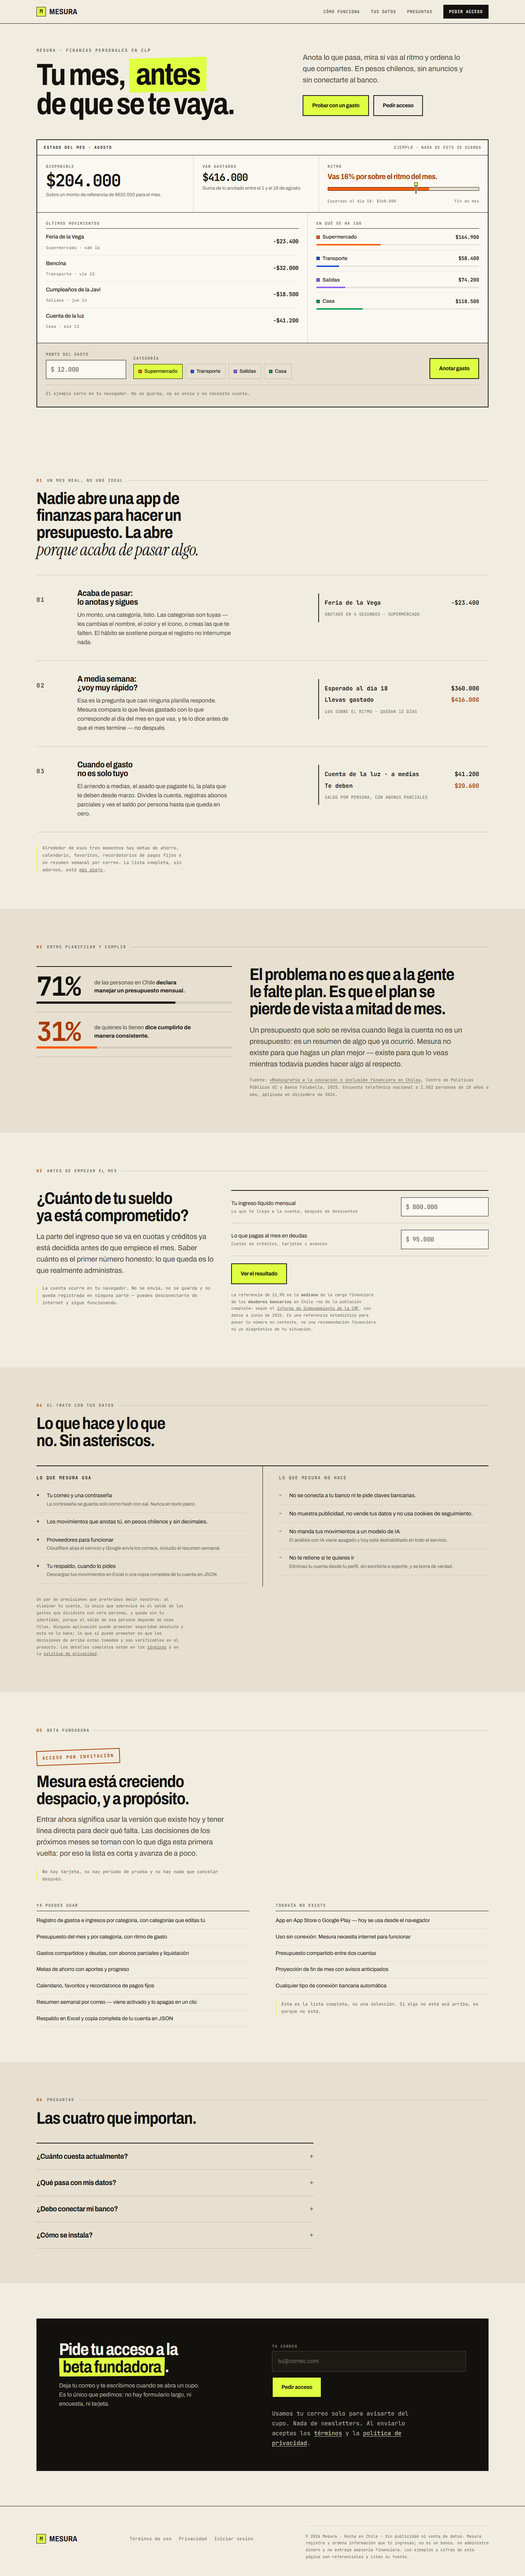
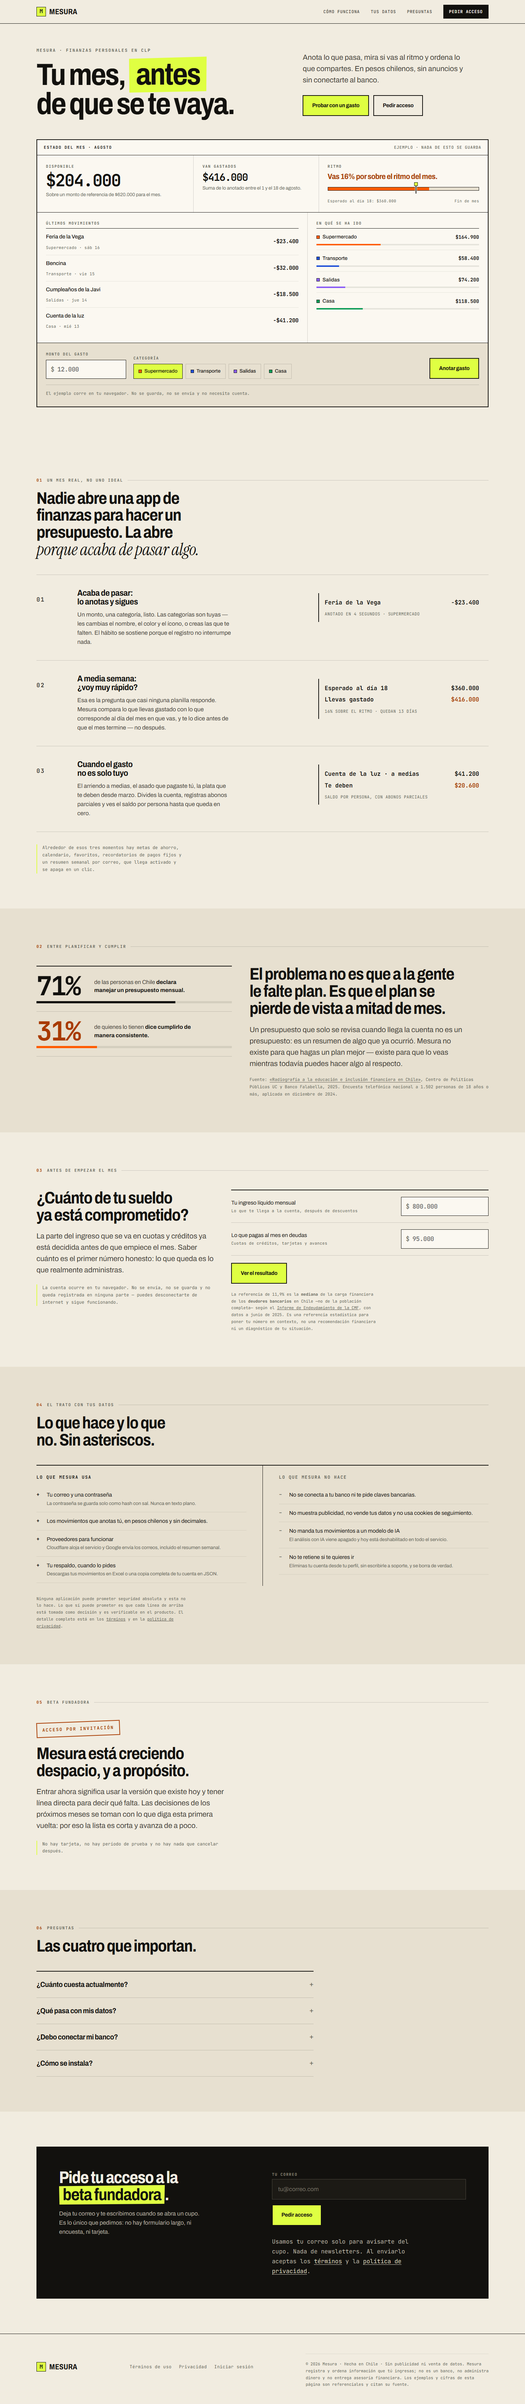
content(landing): saca el inventario de funciones de la seccion Beta fundadora
Las dos listas ('Ya puedes usar' / 'Todavia no existe') se leian como changelog
interno, y enumerar carencias justo encima del formulario cambia el trabajo de
la seccion de cerrar a dar explicaciones.

Ademas resuelve una contradiccion: la lista de carencias incluia 'cualquier tipo
de conexion bancaria automatica', que el hero vende como virtud ('sin conectarte
al banco'). La pagina se contradecia sola.

Ninguna afirmacion verificada se pierde, se redistribuyen:
- El resumen semanal como opt-out pasa a la nota al margen de la seccion 01.
  Era una correccion deliberada de honestidad y no podia quedar fuera.
- Que los gastos compartidos se anonimizan al eliminar la cuenta pasa a la FAQ
  de datos, que es donde alguien lo va a buscar.
- Las tiendas y la necesidad de internet ya estaban en la FAQ de instalacion.

Se recorta tambien la letra chica de 'Tus datos', que habia crecido hasta
parecer un anexo legal, y se elimina el CSS de .two-lists que queda muerto.

La pagina baja de 9.385 px a 8.430 px en movil. 48/48 pruebas funcionales y
cero violaciones de axe en las cuatro configuraciones.

diff --git a/index.html b/index.html
@@ -344,8 +344,8 @@
 
       <p class="marginal" style="margin-top:34px;max-width:56ch;">
         Alrededor de esos tres momentos hay metas de ahorro, calendario, favoritos,
-        recordatorios de pagos fijos y un resumen semanal por correo. La lista
-        completa, sin adornos, está <a href="#acceso">más abajo</a>.
+        recordatorios de pagos fijos y un resumen semanal por correo, que llega
+        activado y se apaga en un clic.
       </p>
     </div>
   </section>
@@ -517,12 +517,9 @@
       </div>
 
       <p class="fineprint" style="margin-top:26px;">
-        Un par de precisiones que preferimos decir nosotros: al eliminar tu cuenta, lo
-        único que sobrevive es el saldo de los gastos que dividiste con otra persona, y
-        queda sin tu identidad, porque el saldo de esa persona depende de esas filas.
-        Ninguna aplicación puede prometer seguridad absoluta y esta no lo hace; lo que
-        sí puede prometer es que las decisiones de arriba están tomadas y son
-        verificables en el producto. Los detalles completos están en los
+        Ninguna aplicación puede prometer seguridad absoluta y esta no lo hace. Lo que
+        sí puede prometer es que cada línea de arriba está tomada como decisión y es
+        verificable en el producto. El detalle completo está en los
         <a href="https://mesura.mrifo2808.workers.dev/terminos" rel="noopener">términos</a> y en la
         <a href="https://mesura.mrifo2808.workers.dev/privacidad" rel="noopener">política de privacidad</a>.
       </p>
@@ -536,50 +533,19 @@
         <p class="tag"><b>05</b> Beta fundadora</p>
       </div>
 
-      <div class="beta">
-        <div class="beta__intro">
-          <p class="stamp">Acceso por invitación</p>
-          <h2 class="t-h2" style="margin-top:24px;">Mesura está creciendo despacio, y a propósito.</h2>
-          <p class="lead" style="margin-top:18px;">
-            Entrar ahora significa usar la versión que existe hoy y tener línea
-            directa para decir qué falta. Las decisiones de los próximos meses se
-            toman con lo que diga esta primera vuelta: por eso la lista es corta y
-            avanza de a poco.
-          </p>
-          <p class="marginal" style="margin-top:26px;">
-            No hay tarjeta, no hay período de prueba y no hay nada que cancelar
-            después.
-          </p>
-        </div>
-
-        <div class="two-lists">
-          <div>
-            <h3>Ya puedes usar</h3>
-            <ul>
-              <li>Registro de gastos e ingresos por categoría, con categorías que editas tú</li>
-              <li>Presupuesto del mes y por categoría, con ritmo de gasto</li>
-              <li>Gastos compartidos y deudas, con abonos parciales y liquidación</li>
-              <li>Metas de ahorro con aportes y progreso</li>
-              <li>Calendario, favoritos y recordatorios de pagos fijos</li>
-              <li>Resumen semanal por correo — viene activado y lo apagas en un clic</li>
-              <li>Respaldo en Excel y copia completa de tu cuenta en JSON</li>
-            </ul>
-          </div>
-          <div>
-            <h3>Todavía no existe</h3>
-            <ul>
-              <li>App en App Store o Google Play — hoy se usa desde el navegador</li>
-              <li>Uso sin conexión: Mesura necesita internet para funcionar</li>
-              <li>Presupuesto compartido entre dos cuentas</li>
-              <li>Proyección de fin de mes con avisos anticipados</li>
-              <li>Cualquier tipo de conexión bancaria automática</li>
-            </ul>
-            <p class="marginal" style="margin-top:18px;">
-              Esta es la lista completa, no una selección. Si algo no está acá arriba,
-              es porque no está.
-            </p>
-          </div>
-        </div>
+      <div class="beta__intro">
+        <p class="stamp">Acceso por invitación</p>
+        <h2 class="t-h2" style="margin-top:24px;">Mesura está creciendo despacio, y a propósito.</h2>
+        <p class="lead" style="margin-top:18px;">
+          Entrar ahora significa usar la versión que existe hoy y tener línea
+          directa para decir qué falta. Las decisiones de los próximos meses se
+          toman con lo que diga esta primera vuelta: por eso la lista es corta y
+          avanza de a poco.
+        </p>
+        <p class="marginal" style="margin-top:26px;">
+          No hay tarjeta, no hay período de prueba y no hay nada que cancelar
+          después.
+        </p>
       </div>
     </div>
   </section>
@@ -621,9 +587,11 @@
             <p>
               Puedes descargar tus movimientos en Excel, o una copia completa de tu
               cuenta en JSON, y eliminar tu cuenta desde tu propio perfil sin
-              escribirle a soporte. No hay publicidad, ni venta de datos, ni cookies
-              de seguimiento. El análisis con IA viene apagado y hoy está deshabilitado
-              en todo el servicio.
+              escribirle a soporte. Al eliminarla se borra todo, salvo el saldo de los
+              gastos que dividiste con alguien: ese queda, sin tu identidad, porque la
+              otra persona lo necesita. No hay publicidad, ni venta de datos, ni
+              cookies de seguimiento. El análisis con IA viene apagado y hoy está
+              deshabilitado en todo el servicio.
             </p>
             <p>
               Para funcionar, Mesura se apoya en dos proveedores: Cloudflare, donde

diff --git a/assets/css/landing.css b/assets/css/landing.css
@@ -998,32 +998,6 @@ h1, h2, h3, h4 {
   text-transform: uppercase;
   transform: rotate(-2.2deg);
 }
-.two-lists {
-  display: grid;
-  gap: 30px;
-  grid-template-columns: 1fr;
-  margin-top: clamp(34px, 4.5vw, 56px);
-}
-@media (min-width: 760px) { .two-lists { grid-template-columns: 1fr 1fr; gap: clamp(32px, 5vw, 72px); } }
-.two-lists h3 {
-  font-family: var(--mono);
-  font-size: 11px;
-  font-weight: 700;
-  letter-spacing: .14em;
-  text-transform: uppercase;
-  font-stretch: normal;
-  color: var(--muted);
-  padding-bottom: 9px;
-  border-bottom: 1px solid var(--rule);
-}
-.two-lists ul { list-style: none; margin-top: 4px; }
-.two-lists li {
-  padding: 11px 0;
-  border-bottom: 1px solid var(--hair-soft);
-  font-size: 14.5px;
-  line-height: 1.5;
-}
-
 /* ---------- 13. Preguntas ----------------------------------------------- */
 .qa { max-width: 78ch; border-top: 2px solid var(--rule); }
 .qa details { border-bottom: 1px solid var(--hair); }

diff --git a/docs/redesign/CLAIM_INVENTORY.md b/docs/redesign/CLAIM_INVENTORY.md
@@ -118,3 +118,36 @@ No se tocaron porque están en otro repositorio, pero conviene corregirlas allá
 2. **`mesurapp/app/privacidad/page.tsx:31`** dice que la hoja se comparte
    *«contigo como lectora/editora»*. El código solo agrega **lector**
    (`Mesura.gs:59`).
+
+---
+
+## 7. Recorte posterior al despliegue (19-ago-2026)
+
+Tras ver la página publicada, el dueño pidió sacar las dos listas de la sección
+«Beta fundadora» («Ya puedes usar» / «Todavía no existe»): se leían como un
+changelog interno y, en una página comercial, enumerar carencias justo antes del
+formulario planta dudas en el peor momento.
+
+**Un problema de fondo que el recorte resuelve:** la lista de carencias incluía
+*«cualquier tipo de conexión bancaria automática»*, que el hero vende como
+virtud (*«sin conectarte al banco»*). La página se contradecía a sí misma.
+
+Ninguna afirmación verificada se perdió: todas siguen publicadas en otro lugar.
+
+| Afirmación | Dónde vive ahora |
+|---|---|
+| Registro por categoría, con categorías editables | Momento 01 |
+| Ritmo de gasto | Momento 02 y la hoja del hero |
+| Gastos compartidos con abonos y liquidación | Momento 03 |
+| Metas de ahorro, calendario, favoritos, recordatorios de pagos fijos | Nota al margen de la sección 01 |
+| **Resumen semanal opt-out** («llega activado y se apaga en un clic») | Nota al margen de la sección 01 — **se reubicó a propósito**, era una corrección deliberada de honestidad y no podía perderse |
+| Respaldo en Excel y copia en JSON | Acuerdo de datos |
+| No está en App Store ni Google Play | FAQ «¿Cómo se instala?» |
+| Necesita conexión a internet | FAQ «¿Cómo se instala?» |
+| **Gastos compartidos se anonimizan al eliminar la cuenta** | FAQ «¿Qué pasa con mis datos?» — **se reubicó** desde la letra chica, que también se recortó por leerse como texto legal interno |
+
+**Afirmaciones que dejaron de publicarse** (sin reemplazo, por ser roadmap y no
+producto actual): presupuesto compartido entre dos cuentas, proyección de fin de
+mes con avisos anticipados, y «presupuesto **por categoría**» — esta última
+existe en el producto (`app/api/budgets/category/route.ts`), simplemente ya no se
+menciona en la landing.

diff --git a/docs/redesign/CONTENT_AUDIT.md b/docs/redesign/CONTENT_AUDIT.md
@@ -92,6 +92,29 @@ el banco y no toma decisiones por nadie. Está dicho literalmente en el pie.
 6. **«Esta es la lista completa, no una selección.»** Al lado de la lista de lo
    que ya se puede usar. Es una promesa fácil de cumplir y difícil de imitar.
 
+## 5 bis. Recorte posterior al despliegue
+
+Con la página ya publicada, el dueño pidió sacar las dos listas de la sección
+«Beta fundadora». Tiene razón y el motivo es comercial, no editorial: un
+inventario de funciones y, sobre todo, una lista de carencias justo encima del
+formulario, cambian el trabajo de la sección de «cerrar» a «dar explicaciones».
+
+Ese bloque existía porque el encargo original pedía declarar qué se puede usar hoy
+y qué está en desarrollo. La honestidad no se pierde: se distribuyó donde ya
+correspondía. Las funciones se nombran en los tres momentos y en la nota al
+margen; las dos limitaciones que sí importan —no está en las tiendas y necesita
+internet— ya estaban en la FAQ. El mapa completo está en
+`CLAIM_INVENTORY.md` §7.
+
+Ganancia medible: la página baja de 9.385 px a 8.430 px en móvil.
+
+Se recortó también la letra chica de «Tus datos», que había crecido hasta
+parecer un anexo legal. La única precisión que valía la pena conservar —que los
+gastos compartidos se anonimizan en vez de borrarse— pasó a la FAQ, que es donde
+alguien la va a buscar.
+
+---
+
 ## 6. Lo que se ganó el espacio y lo que no
 
 **Se ganó el espacio:** la hoja del estado del mes (es el producto), la

diff --git a/docs/redesign/QA_REPORT.md b/docs/redesign/QA_REPORT.md
@@ -48,14 +48,16 @@ Carencias detectadas en el baseline, todas resueltas en esta rama:
 
 | Viewport | Alto | Scroll horizontal | Consola | Nav |
 |---|---|---|---|---|
-| 360×800 | 9.764 px | **no** | limpia | banda compacta, sin hamburguesa |
-| 390×844 | 9.385 px | **no** | limpia | banda compacta |
-| 768×1024 | 8.114 px | **no** | limpia | banda compacta |
-| 1024×768 | 6.754 px | **no** | limpia | horizontal completa |
-| 1440×900 | 7.063 px | **no** | limpia | horizontal completa |
-| 1920×1080 | 7.063 px | **no** | limpia | horizontal completa |
+| 360×800 | 8.790 px | **no** | limpia | banda compacta, sin hamburguesa |
+| 390×844 | 8.430 px | **no** | limpia | banda compacta |
+| 768×1024 | 7.557 px | **no** | limpia | banda compacta |
+| 1024×768 | 6.273 px | **no** | limpia | horizontal completa |
+| 1440×900 | 6.594 px | **no** | limpia | horizontal completa |
+| 1920×1080 | 6.594 px | **no** | limpia | horizontal completa |
 
-Verificado en claro y en oscuro en los seis tamaños (12 capturas).
+Verificado en claro y en oscuro en los seis tamaños. Alturas medidas tras el
+recorte de las dos listas de la sección 05 (ver `CONTENT_AUDIT.md` §5 bis); antes
+del recorte eran entre 500 y 950 px más altas.
 
 **Sobre el alto:** la página es más larga que la anterior. Es intencional y no es
 relleno: la hoja del estado del mes ocupa el ancho completo en vez de caber en un
